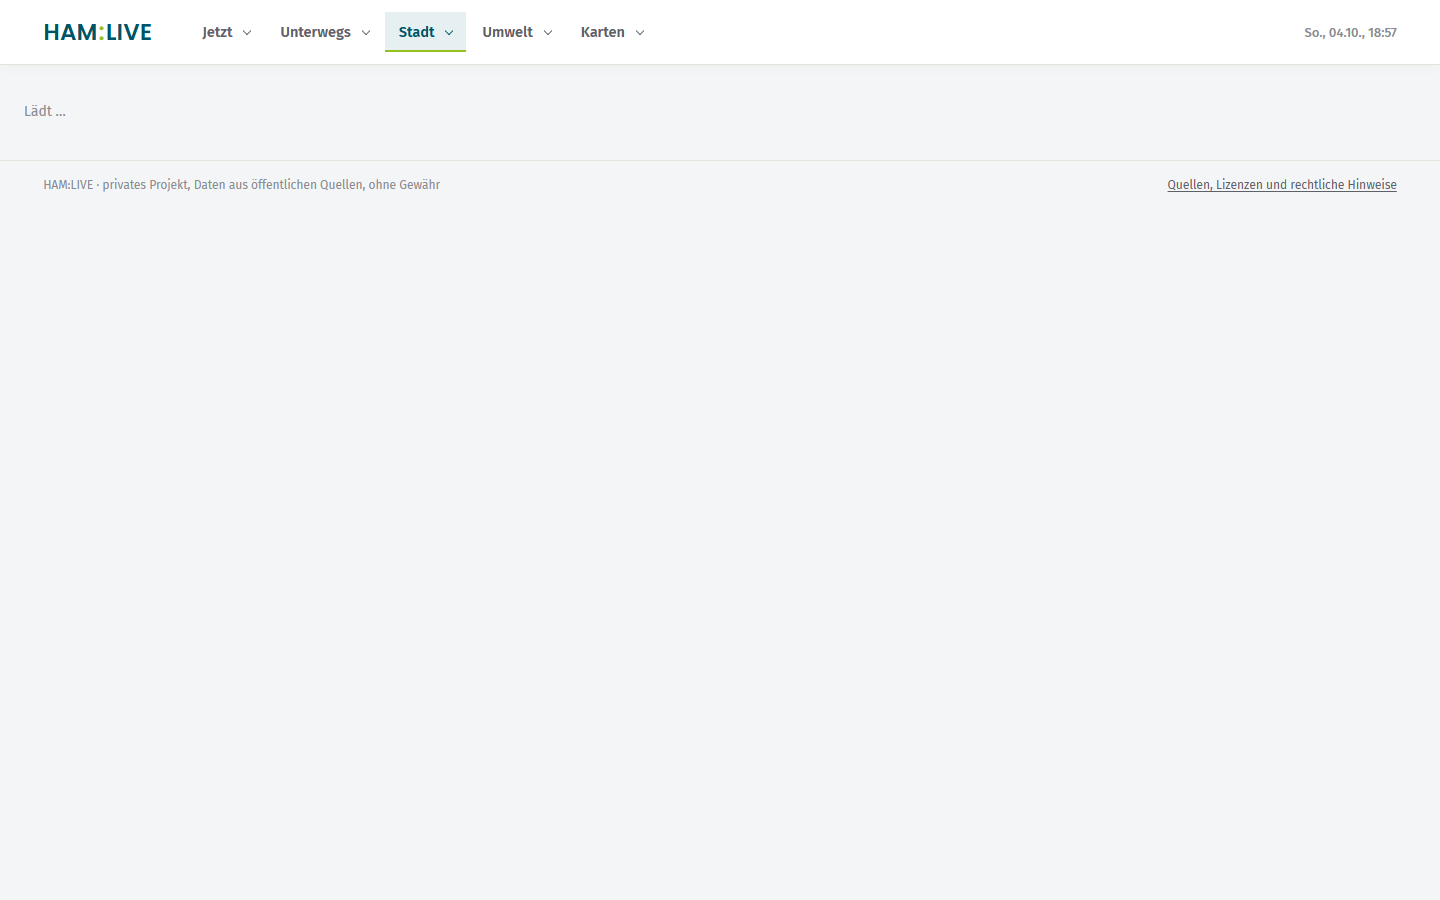
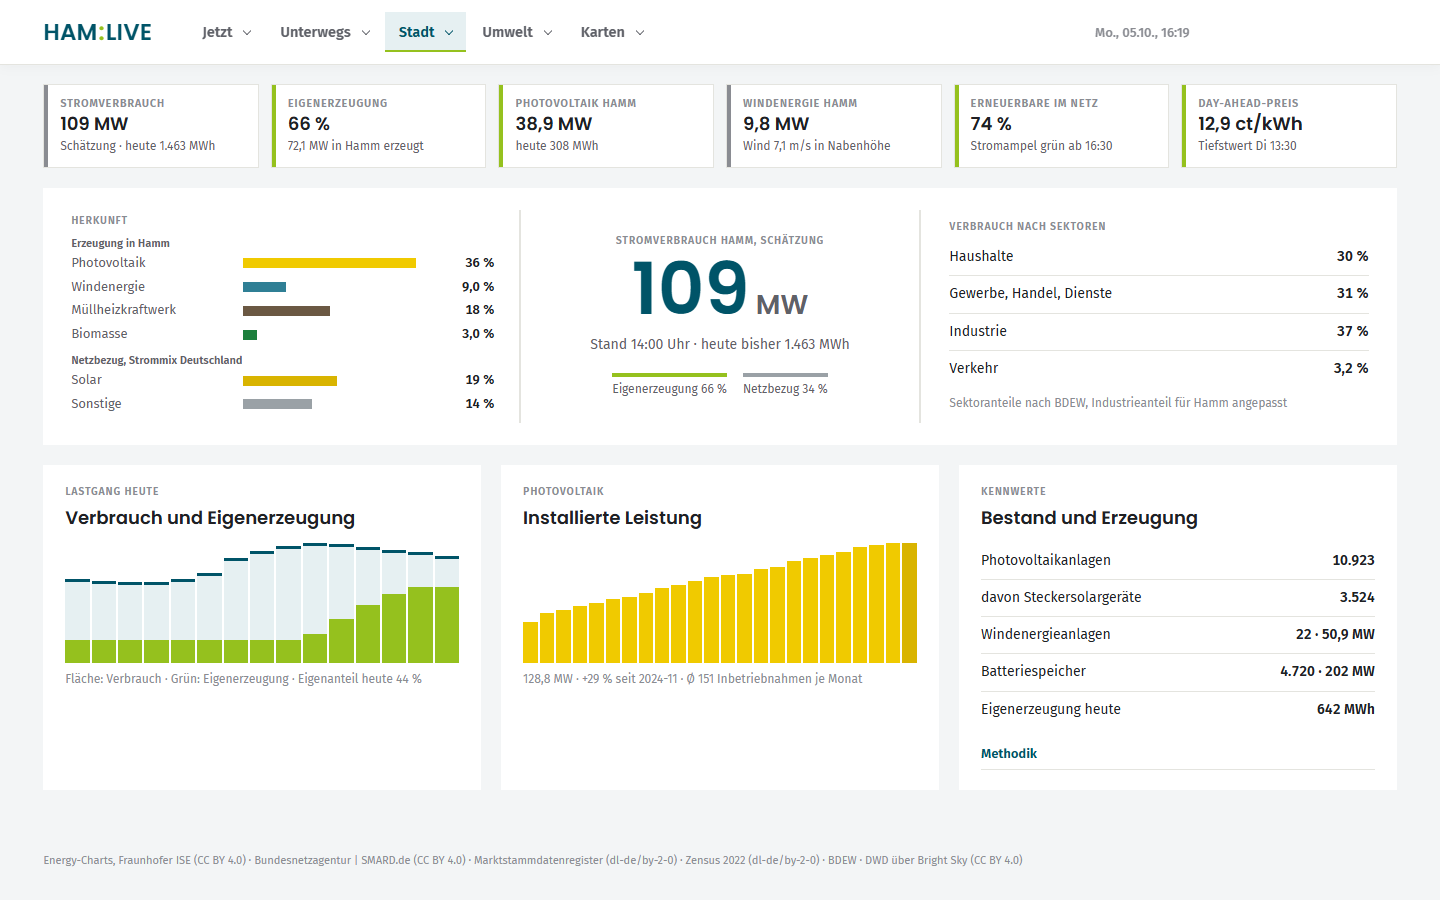
HAM:LIVE, Stand von master 35471db

diff --git a/web/src/main.ts b/web/src/main.ts
@@ -339,7 +339,7 @@ function panelZeichnen() {
   }
   if (!tab.magazin) karteInKachel()
   if (tab.magazin) { magazinZeichnen(); return }
-  if (tab.energie) { el.innerHTML = energieSeiteHtml(energieDaten()) + FUSSZEILE; return }
+  if (tab.energie) { el.innerHTML = energieSeite() + FUSSZEILE; return }
   if (tab.quellen) { quellenZeichnen(el); return }
   if (tab.webcams) { const cams = WEBCAMS.filter((c) => erlaubt(c.lizenz)); el.innerHTML = webcamsSeiteHtml(cams) + FUSSZEILE; webcamsStopp?.(); webcamsStopp = webcamsVerdrahten(el, cams); return }
   if (tab.kalender) { el.innerHTML = kalenderHtml() + FUSSZEILE; kalenderVerdrahten(el, panelZeichnen); return }
@@ -635,6 +635,12 @@ async function verkehrTagZeichnen() {
   if (tag) tag.innerHTML = html
 }
 let energieRaf = 0
+/** Energie-Seite; fällt Energy-Charts aus, ein Hinweis statt dauerhaft „Lädt …“ */
+function energieSeite() {
+  const d = energieDaten()
+  if (!d.stromDe && /^Quelle gerade nicht erreichbar/.test(cache.get('stromDe')?.zeilen[0]?.text ?? '')) return '<div class="seite"><div class="box" style="margin:24px var(--rand)"><p class="lbl">Energie</p><h2 style="margin:4px 0 8px">Energy-Charts gerade nicht erreichbar</h2><p>Die Stromdaten für Deutschland kommen von Energy-Charts (Fraunhofer ISE). Neuer Versuch jede Minute.</p></div></div>'
+  return energieSeiteHtml(d)
+}
 let webcamsStopp: (() => void) | undefined
 /** Fußzeile der Leseseiten (Kartenseiten: Link im Kartenhinweis unten rechts) */
 const FUSSZEILE = `<footer class="fusszeile"><span>HAM:LIVE · privates Projekt, Daten aus öffentlichen Quellen, ohne Gewähr</span><a href="#quellen">Quellen, Lizenzen und rechtliche Hinweise</a></footer>`
@@ -646,7 +652,7 @@ function quellenZeichnen(el: HTMLElement) {
   el.innerHTML = quellenSeiteHtml(live, datenstand, magazin?.stand)
   if (!datenstand) void fetch('/api/datenstand').then((r) => r.json()).then((d) => { datenstand = d; if (tab.quellen) quellenZeichnen($('#tafel')) }).catch(() => { datenstand = [] })
 }
-function energieBald() { if (!energieRaf) energieRaf = requestAnimationFrame(() => { energieRaf = 0; if (tab.energie) $('#tafel').innerHTML = energieSeiteHtml(energieDaten()) + FUSSZEILE }) }
+function energieBald() { if (!energieRaf) energieRaf = requestAnimationFrame(() => { energieRaf = 0; if (tab.energie) $('#tafel').innerHTML = energieSeite() + FUSSZEILE }) }
 let magazinRaf = 0
 function magazinBald() { if (!magazinRaf) magazinRaf = requestAnimationFrame(() => { magazinRaf = 0; magazinZeichnen() }) }
 
@@ -1081,6 +1087,8 @@ async function quelleLaden(q: Quelle) {
     const vorher = cache.get(q.id)
     if (vorher?.abruf && !vorher.zeilen[0]?.text.startsWith('Quelle gerade nicht erreichbar')) karteRendern(q.id, vorher.zeilen, vorher.zaehler, q.lizenz, vorher.abruf, true)
     else karteRendern(q.id, [{ text: 'Quelle gerade nicht erreichbar', klein: String(err).slice(0, 100), stufe: 'alarm' }], '–', q.lizenz)
+    // noch nie geladen: nicht bis zum nächsten Takt (bis 15 min) warten, sondern nach einer Minute erneut versuchen
+    if (!vorher?.abruf || vorher.zeilen[0]?.text.startsWith('Quelle gerade nicht erreichbar')) setTimeout(() => void quelleLaden(q), 60000)
   }
 }
 
